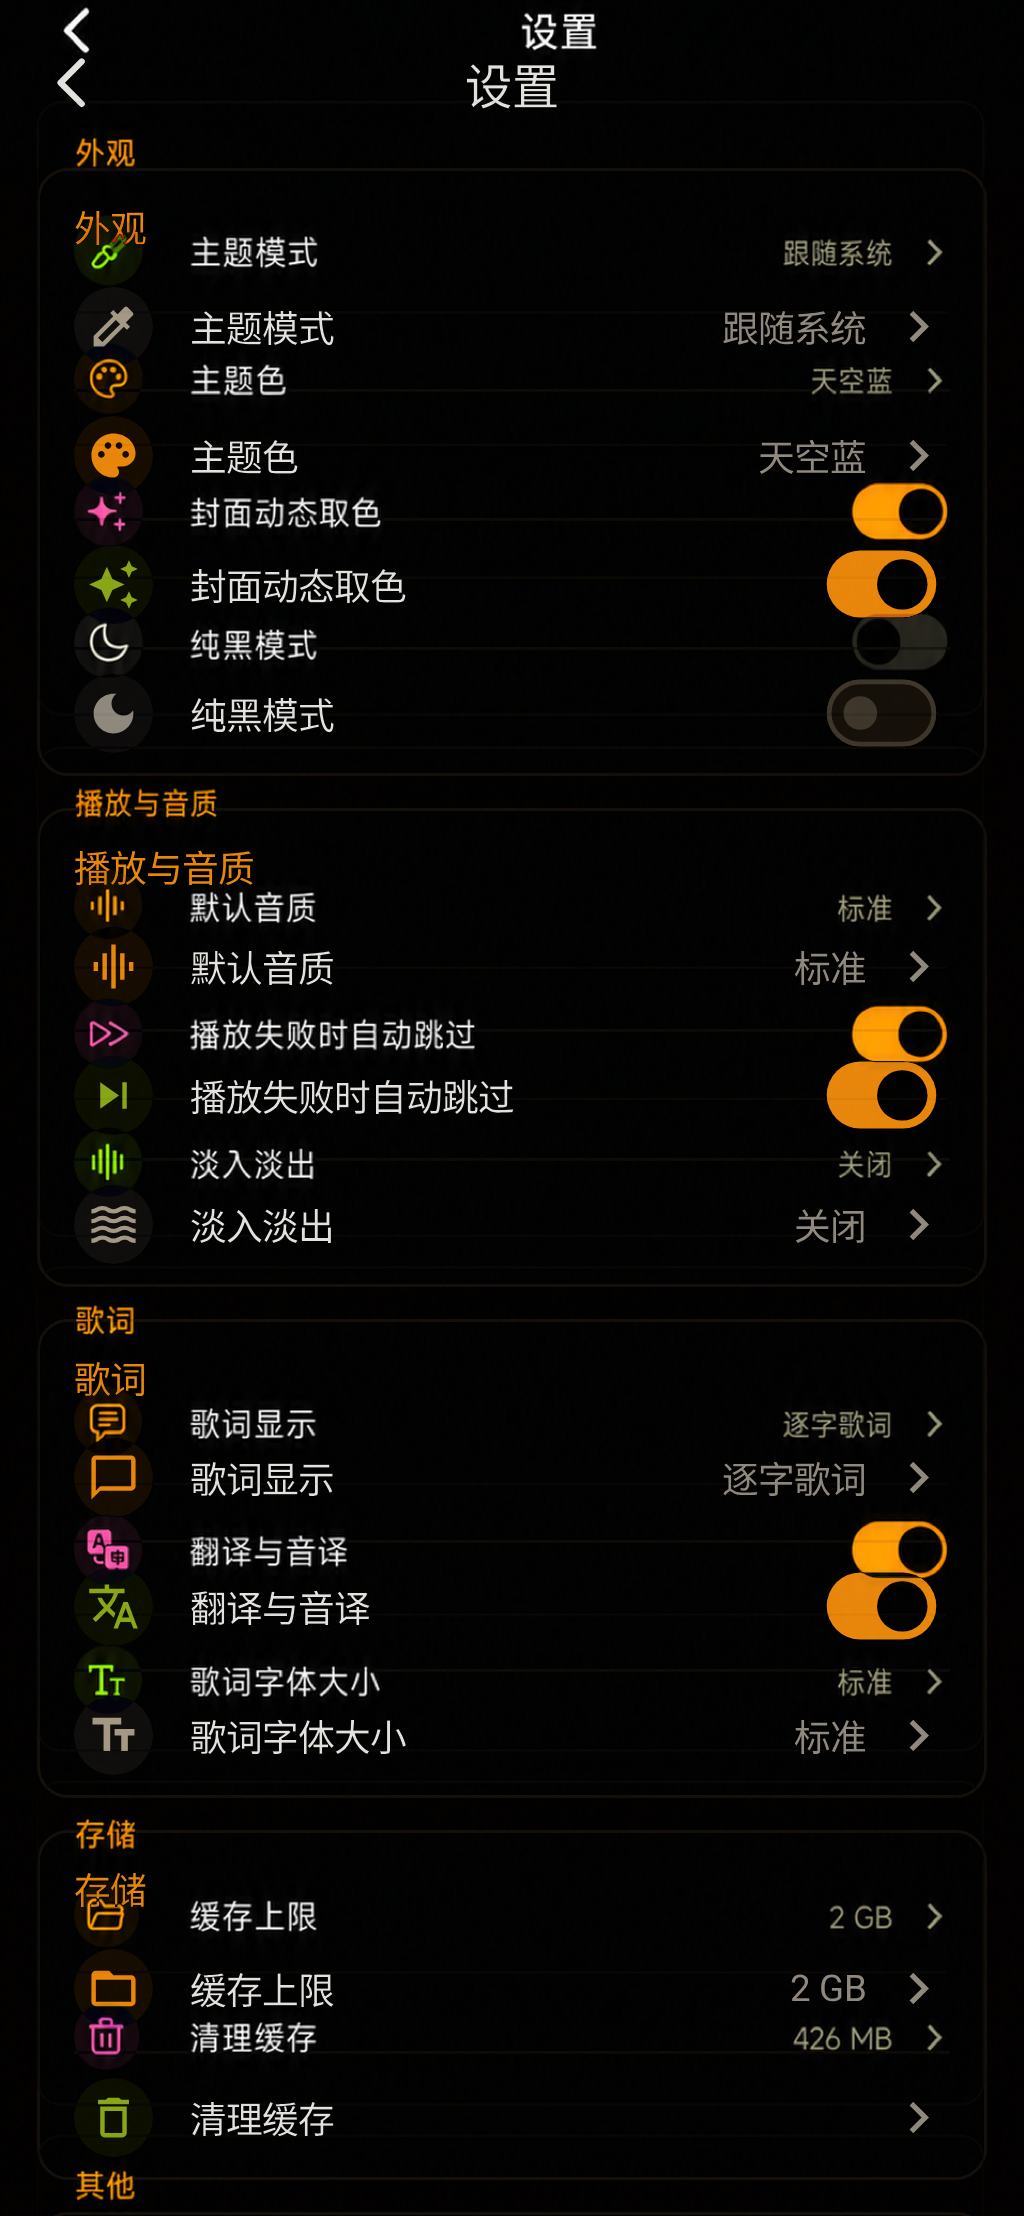
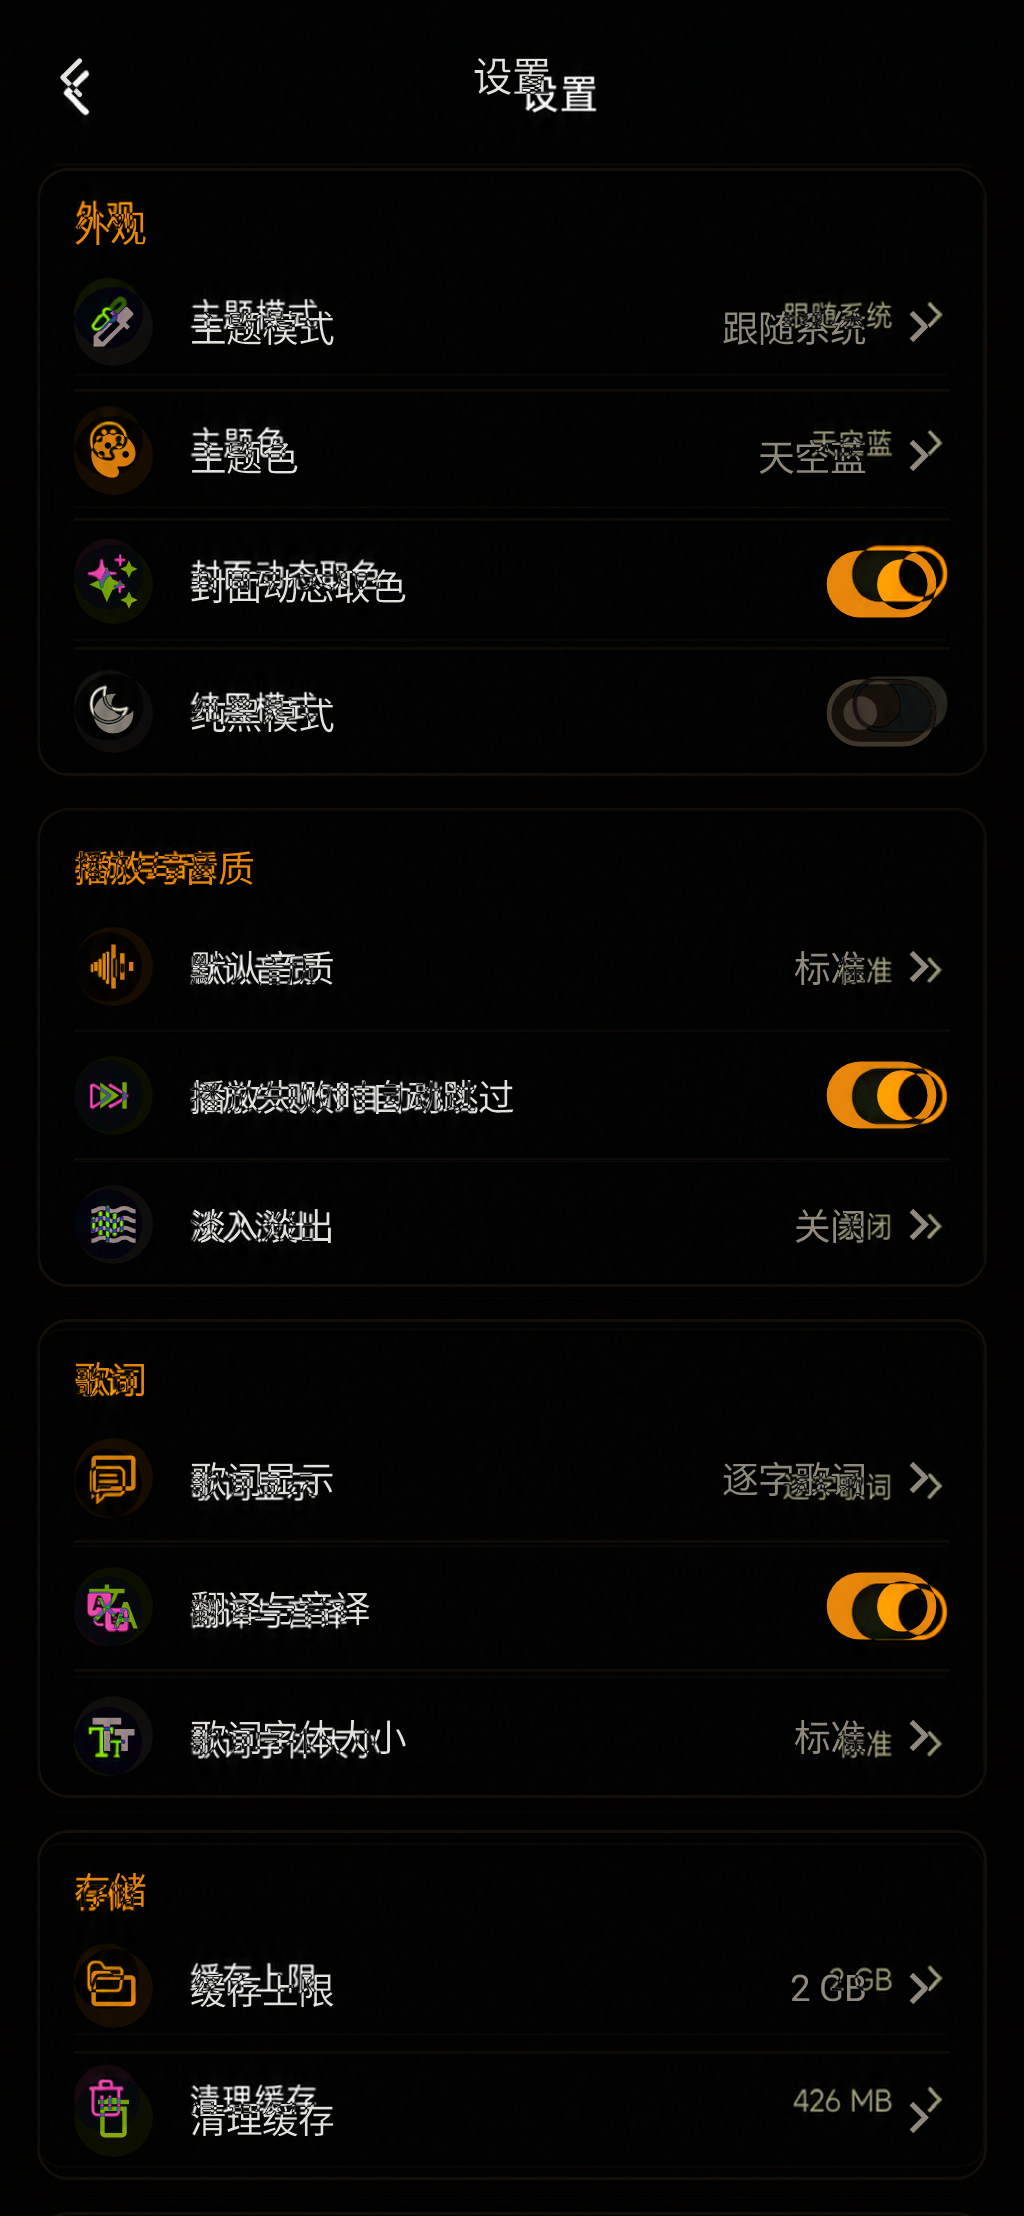
fix(designsystem): refine toolbar visual metrics

diff --git a/core/designsystem/src/main/kotlin/cn/james/music/core/designsystem/component/navigation/MoeTopBars.kt b/core/designsystem/src/main/kotlin/cn/james/music/core/designsystem/component/navigation/MoeTopBars.kt
@@ -33,11 +33,14 @@ import androidx.compose.runtime.Composable
 import androidx.compose.ui.Alignment
 import androidx.compose.ui.Modifier
 import androidx.compose.ui.graphics.Color
+import androidx.compose.ui.graphics.graphicsLayer
 import androidx.compose.ui.graphics.vector.ImageVector
 import androidx.compose.ui.text.input.ImeAction
 import androidx.compose.ui.text.style.TextOverflow
 import androidx.compose.ui.unit.IntOffset
+import androidx.compose.ui.unit.Dp
 import androidx.compose.ui.unit.dp
+import androidx.compose.ui.unit.sp
 import cn.james.music.core.designsystem.MoeKoeTheme
 
 @Composable
@@ -125,7 +128,7 @@ fun MoeStandardTopBar(
     navigationIcon: @Composable () -> Unit = {
         MoeNavigateBackIcon(
             contentDescription = navigationContentDescription,
-            modifier = Modifier.size(MoeKoeTheme.dimensions.iconSupporting),
+            modifier = Modifier.size(MoeKoeTheme.dimensions.iconSmall),
         )
     },
     actions: @Composable RowScope.() -> Unit = {},
@@ -134,15 +137,23 @@ fun MoeStandardTopBar(
         title = {
             Text(
                 text = title,
+                modifier = Modifier.offset(y = (-4).dp),
                 maxLines = 1,
                 overflow = TextOverflow.Ellipsis,
-                style = MaterialTheme.typography.titleMedium,
+                style =
+                    MaterialTheme.typography.titleSmall.copy(
+                        fontSize = 15.sp,
+                        lineHeight = 22.sp,
+                    ),
             )
         },
         navigationIcon = {
             IconButton(
                 onClick = onNavigateBack,
-                modifier = Modifier.size(MoeKoeTheme.dimensions.minimumTouchTarget),
+                modifier =
+                    Modifier
+                        .size(MoeKoeTheme.dimensions.minimumTouchTarget)
+                        .offset(y = (-2).dp),
             ) {
                 navigationIcon()
             }
@@ -164,15 +175,22 @@ fun MoeStandardTopBarAction(
     contentDescription: String,
     onClick: () -> Unit,
     modifier: Modifier = Modifier,
+    horizontalVisualOffset: Dp = 0.dp,
 ) {
     IconButton(
         onClick = onClick,
-        modifier = modifier.size(MoeKoeTheme.dimensions.minimumTouchTarget),
+        modifier =
+            modifier
+                .size(MoeKoeTheme.dimensions.minimumTouchTarget)
+                .offset(y = (-3).dp),
     ) {
         Icon(
             imageVector = imageVector,
             contentDescription = contentDescription,
-            modifier = Modifier.size(MoeKoeTheme.dimensions.iconSupporting),
+            modifier =
+                Modifier
+                    .size(MoeKoeTheme.dimensions.iconSupporting)
+                    .graphicsLayer { translationX = horizontalVisualOffset.toPx() },
         )
     }
 }

diff --git a/feature/playlist/src/main/kotlin/cn/james/music/feature/playlist/PlaylistDetailScreen.kt b/feature/playlist/src/main/kotlin/cn/james/music/feature/playlist/PlaylistDetailScreen.kt
@@ -100,6 +100,7 @@ internal fun PlaylistDetailScreen(
                         imageVector = Icons.Default.Search,
                         contentDescription = stringResource(R.string.playlist_detail_search),
                         onClick = onSearch,
+                        horizontalVisualOffset = 8.dp,
                     )
                     MoeStandardTopBarAction(
                         imageVector = Icons.Default.MoreVert,

diff --git a/feature/profile/src/main/kotlin/cn/james/music/feature/profile/UserProfileScreen.kt b/feature/profile/src/main/kotlin/cn/james/music/feature/profile/UserProfileScreen.kt
@@ -93,6 +93,7 @@ internal fun UserProfileScreen(
                         imageVector = Icons.Default.Share,
                         contentDescription = stringResource(R.string.profile_share),
                         onClick = onShare,
+                        horizontalVisualOffset = 8.dp,
                     )
                     MoeStandardTopBarAction(
                         imageVector = Icons.Default.MoreVert,

diff --git a/docs/DESIGN_SYSTEM.md b/docs/DESIGN_SYSTEM.md
@@ -111,7 +111,7 @@
 | `headlineLarge` | `28sp / 36sp` | SemiBold | 页面主标题、登录主标题 |
 | `headlineMedium` | `24sp / 32sp` | SemiBold | 模块主标题 |
 | `titleLarge` | `22sp / 28sp` | SemiBold | 重要区块 |
-| `titleMedium` | `18sp / 26sp` | SemiBold | 标准 Toolbar、卡片和 Dialog 标题 |
+| `titleMedium` | `18sp / 26sp` | SemiBold | 卡片和 Dialog 标题 |
 | `titleSmall` | `16sp / 24sp` | SemiBold | 歌曲标题、主要列表标题 |
 | `bodyLarge` | `16sp / 24sp` | Regular | 输入内容、重要正文 |
 | `bodyMedium` | `14sp / 22sp` | Regular | 正文、歌手和说明文字 |
@@ -162,7 +162,7 @@
 
 ### Toolbar 变体
 
-1. 标准：以 `10-user-profile.png` 为基准。高度 `64dp`，不含系统状态栏；水平内容边距 `16dp`；标题使用单行 `titleMedium`（`18sp / 26sp`），相对完整页面宽度几何居中，而不是跟随左侧内容起排。共享 Chevron 使用自身已确认路径尺寸；尾部 Material 操作使用 `20dp` 可见图形，均置于至少 `48dp` 语义触控区，不显示圆形底板、卡片外框或 Toolbar 整体阴影。
+1. 标准：以 `10-user-profile.png` 为坐标母版。高度 `64dp`，不含系统状态栏；水平内容边距 `16dp`；标题使用单行 `15sp / 22sp` SemiBold，相对完整页面宽度几何居中，并以视觉字框而非 Material 默认基线做 `-4dp` 光学校正。共享 Chevron 使用 `16dp` 可见画布与 `-2dp` 光学校正；尾部 Material 操作使用 `20dp` 可见图形与 `-3dp` 光学校正。双尾部操作的前一个可见图形向尾端校正 `8dp`，但两个 `48dp` 触控区仍保持原位且不重叠。全部操作不显示圆形底板、卡片外框或 Toolbar 整体阴影。
 2. 滚动标准态：保持标准态几何与居中标题；内容滚动后切换为实体 `surface`，最多增加一条轻量底部分隔线，不改变图标容器、标题位置或 Toolbar 高度。
 3. 搜索：使用独立 `56dp` Toolbar，内部搜索框视觉高度 `40dp`、圆角约 `20dp`；左侧导航与右侧语音操作各占至少 `48dp` 触控区。搜索、清除图标使用独立紧凑槽位，图标背景不得填满输入框高度。搜索属于子页面，不进入底部导航，也不叠加第二个页面标题。
 4. 多选：左侧关闭，中间显示已选数量，尾部只保留当前流程需要的少量操作；只有删除等破坏性操作使用 Error 色。

diff --git a/docs/design/evidence/settings-2026-08-08.md b/docs/design/evidence/settings-2026-08-08.md
@@ -2,7 +2,7 @@
 
 - 确认稿：`docs/design/mockups/09-settings.png`
 - 实现截图：`feature/settings/src/screenshotTestDebug/reference/cn/james/music/feature/settings/SettingsScreenshotTestKt/SettingsLightScreenshot_Light_442d9280_0.png`
-- 比较范围：确认稿移除顶部 `52px` 系统安全区后按实现截图宽度归一化，再裁取同高首屏对照；完整长内容由 `SettingsLongContentScreenshot` 和真机滚动测试验收。
+- 比较范围：确认稿 `853 × 2172px` 按实现截图宽度归一化，再裁取同高首屏对照；设置稿本身不绘制系统状态栏，完整长内容由 `SettingsLongContentScreenshot` 和真机滚动测试验收。公共 Toolbar 的标题、图标和光学基线另以 `10-user-profile.png` 母版复核。
 
 ## 证据文件
 
@@ -13,7 +13,7 @@
 ## 结论
 
 - 外观、播放与音质、歌词、存储、其他五个分组及 14 个 Item 已完整恢复；分组宽度、圆角、标题、图标槽、分隔线、尾部值、Chevron 和 Switch 均按确认稿同画布复核。
-- 页面复用确认的全局居中 Toolbar：标题使用 `18sp / 26sp`，返回图标保持共享 Chevron 轮廓和 `48dp` 触控区；首个分组紧接 Toolbar。Item 使用一致的 `48dp` 最小触控高度且可随文字自然增高，长内容由单一 `LazyColumn` 滚动，没有按截图总高度压缩底部 Item。
+- 页面复用确认的全局居中 Toolbar：标题按 `10-user-profile` 母版实测使用 `15sp / 22sp`，返回图标保持共享 Chevron 轮廓、`16dp` 可见画布和 `48dp` 触控区；首个分组紧接 Toolbar。Item 使用一致的 `48dp` 最小触控高度且可随文字自然增高，长内容由单一 `LazyColumn` 滚动，没有按截图总高度压缩底部 Item。
 - Light、Dark、AMOLED、`1.5×`、`2.0×` 与 `1040dp` 完整长内容共 6 组截图基线已建立；大字体下文本和值未发生横向裁切。
 - 主题选择与关于 Dialog 保持真实交互；其余尚无消费者的设置只展示确认稿静态状态，不写入 DataStore、不展示假缓存容量，也不产生假成功反馈。
 - 保留的 P3 差异仅为 Material 图标笔画与平台字体栅格；统一最小触控高度相对静态稿增加了页面滚动长度，这是无障碍约束，不改变信息密度层级。

diff --git a/docs/UI_COMPONENT_CATALOG.md b/docs/UI_COMPONENT_CATALOG.md
@@ -17,7 +17,7 @@
 | --- | --- | --- | --- | --- |
 | Theme / Token | 根包 | Stable | 全部页面 | 保持语义化，禁止页面覆盖全局 Density |
 | Navigation back icon | `component.navigation` | Stable | 标准 Toolbar、沉浸式 Toolbar、登录 Hero | 统一 SVG/Vector 路径和 RTL；外围按钮组合归各 Toolbar/页面 |
-| Standard TopBar | `component.navigation` | Stable | `10-user-profile`、`15-toolbar-navigation`、设置、歌单详情和本地音乐 | 页面中心锚定 `18sp / 26sp` 标题；调用方只替换返回/关闭等可见导航图标，尾部图标通过 `MoeStandardTopBarAction` 固定 `20dp` 图形与 `48dp` 触控区，公共组件持有颜色和 Insets |
+| Standard TopBar | `component.navigation` | Stable | `10-user-profile`、`15-toolbar-navigation`、设置、歌单详情和本地音乐 | 页面中心锚定 `15sp / 22sp` 标题；共享 Chevron 使用 `16dp` 画布，尾部图标通过 `MoeStandardTopBarAction` 固定 `20dp` 图形，并允许双操作前项做 `8dp` 视觉校正而不移动 `48dp` 触控区；公共组件统一持有光学校正、颜色和 Insets |
 | Immersive TopBar | `component.navigation` | Adopt | 登录、播放器、Hero 详情确认稿 | 页面接入时验证前景对比和 Insets |
 | Search / Selection TopBar | `component.navigation` | Adopt | 搜索、本地音乐多选 | 按各自语义建立窄 API |
 | Button | `component.action` | Adopt | 登录、搜索、本地音乐、我的、播放器 | 建立五类操作与 48/56dp 具名尺寸 |

diff --git a/docs/design/evidence/user-profile-2026-08-08.md b/docs/design/evidence/user-profile-2026-08-08.md
@@ -13,7 +13,7 @@
 ## 结论
 
 - Toolbar、资料 Hero、头像与徽标、三项关系统计、编辑按钮、听歌概览、创建歌单标题及三行歌单的比例、顺序和首屏密度已在同一画布复核。
-- 页面复用已经确认的全局居中 Toolbar：标题使用 `18sp / 26sp`，分享与更多为 `20dp` 可见图标并保留独立 `48dp` 触控区；Hero 紧接 Toolbar，不叠加额外顶部留白。
+- 页面复用已经确认的全局居中 Toolbar：标题按母版实测使用 `15sp / 22sp`，共享 Chevron 为 `16dp` 可见画布，分享与更多为 `20dp` 可见图标；三类内容分别进行光学校正，分享图形在自身触控区内向尾端校正 `8dp`，两个独立 `48dp` 触控区不移动。Hero 紧接 Toolbar，不叠加额外顶部留白。
 - Light、Dark、AMOLED、Loading、Empty、Error、`1.5×`、`2.0×` 共 8 组截图基线已建立；大字体时 Hero 与概览纵向重排，页面继续使用单一纵向滚动容器。
 - “我的”只上抛资料页事件，`:app` 注册类型安全子页面并负责返回栈、一级底栏与 MiniPlayer；`:feature:profile` 不反向依赖 `:feature:my`、数据层或播放层。
 - 当前计数、签名、时长和歌单仅是确认稿 UI fixture；分享、编辑、关系和歌单操作只保留事件端口，未伪装真实业务完成。
